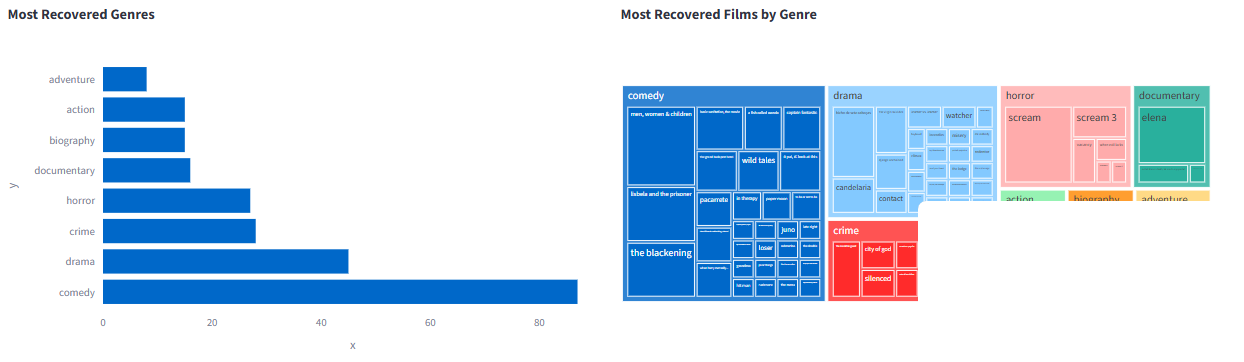
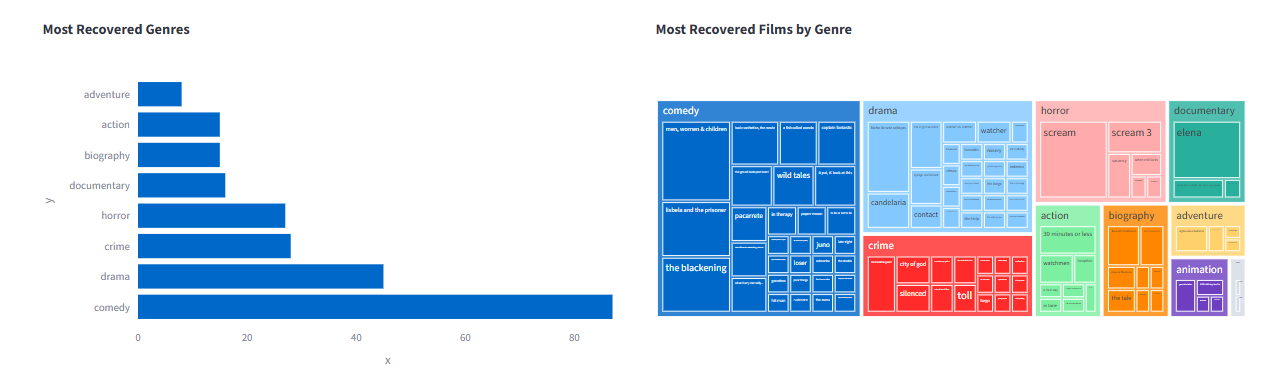
fixing hybrid search

diff --git a/src/vector_search.py b/src/vector_search.py
@@ -78,13 +78,29 @@ class VectorSearch:
 
         search_results = self.client.query_points(
             collection_name=f"{self.collection_name}_hybrid",
+            prefetch=[
+                models.Prefetch(
+                    query=models.Document(
+                        text=query,
+                        model=self.emb_model_name,
+                    ),
+                    using=self.emb_model_name,
+                    limit=(10 * top_k),
+                ),
+            ],
             query=models.Document(
                 text=query,
-                model=self.emb_model_name,
+                model="Qdrant/bm25",
             ),
-            using=self.emb_model_name,
+            using="bm25",
             limit=top_k,
             with_payload=True,
         )
 
-        return [hit.payload for hit in search_results.points]
+        final_dicts = []
+        for hit in search_results.points:
+            aux_dict = hit.payload
+            aux_dict["score"] = hit.score
+            final_dicts.append(aux_dict)
+
+        return final_dicts
